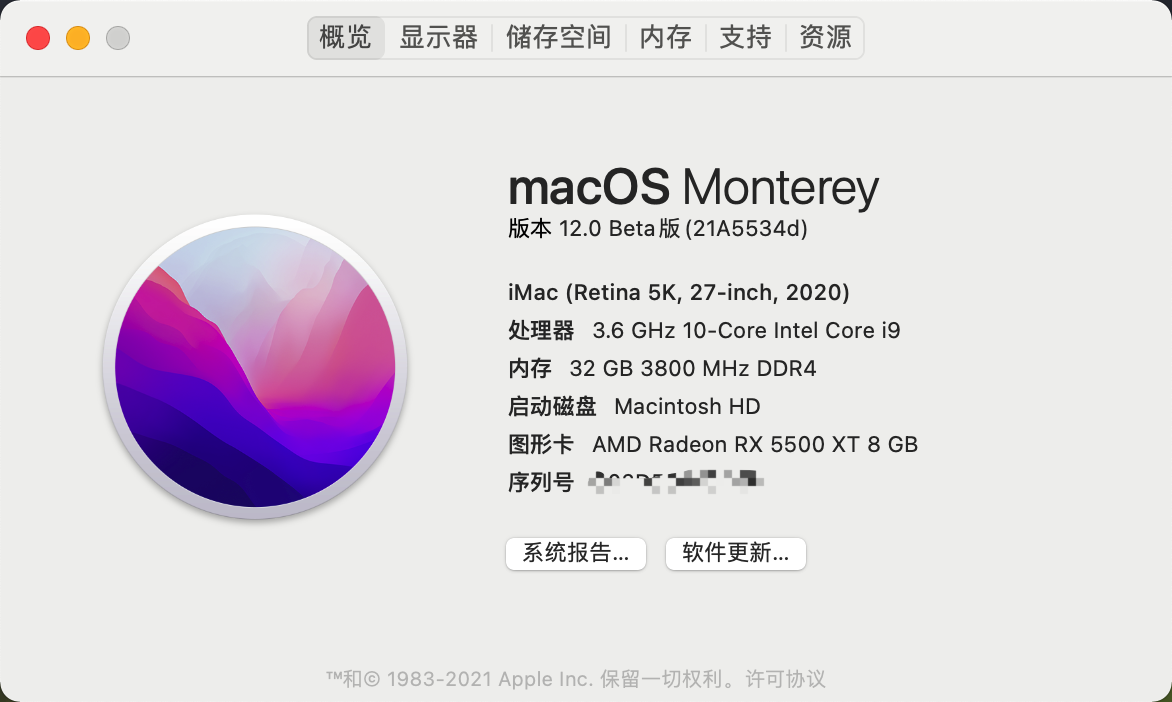
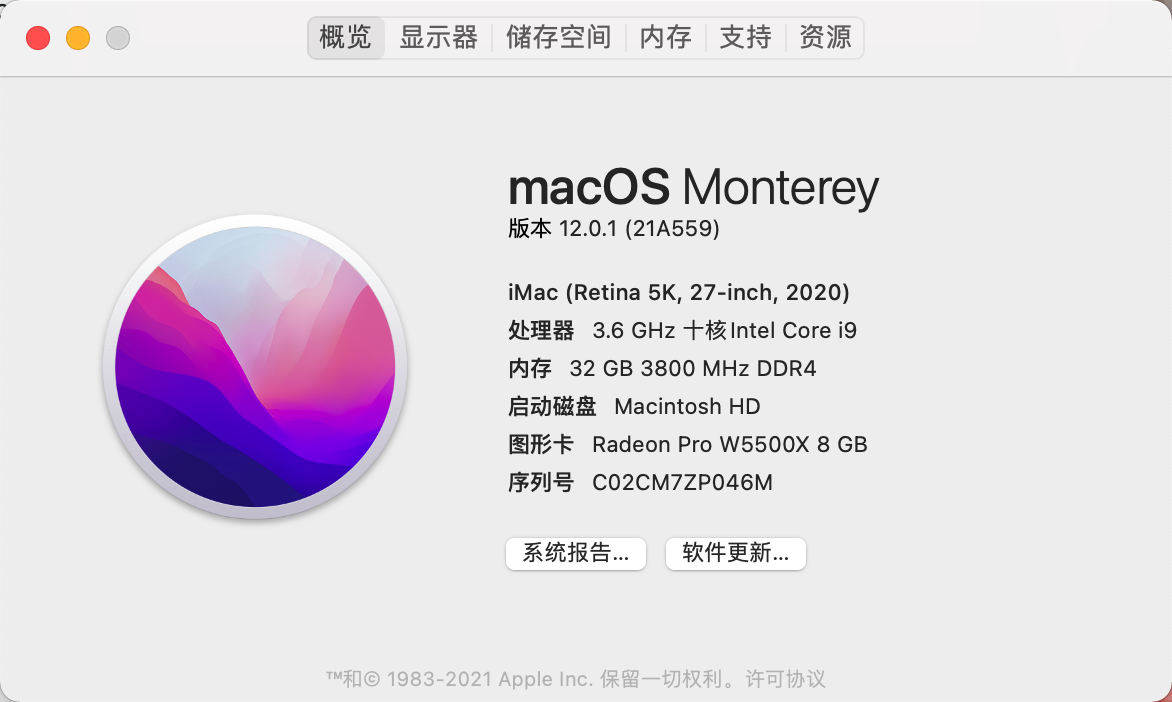
Update README.md

diff --git a/README.md b/README.md
@@ -7,7 +7,7 @@ Hackintosh - AsRock Z490 Phantom Gaming ITX/TB3 - intel Core 10850k - OpenCorePk
 |规格 | 详细信息|
 |:-: | :-:|
 |主板| AsRock Z490 Phantom Gaming ITX/TB3 |
-|操作系统| **macOS** Monterey 12.0 Beta版(21A5248p) |
+|操作系统| **macOS** Monterey 12.0.1 (21A559) |
 |处理器| Intel Core 10850k |
 |内存| G.SKILL 皇家戟 DDR4 16G×2 3200Mhz （OC 3800Mhz C18-22-22-42）|
 |硬盘| WD_BLACK SN750 1TB x 2 / WD_BLACK 黑盘 1TB SATA6Gb/s 7200转64M x 1 |
